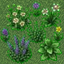
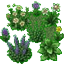
Terrain sprites with transparency, drawn on top of the ground (0.8.998)
Sprites with a grass background are converted to transparent PNGs (tool: out/make_alpha.py,
not in the repo). The renderer draws the ground image first and the sprite over it;
opaque sprites with grass background still work through the old cut-out.

Claude-Session: https://claude.ai/code/session_013ompfMeHdFWbnidekwzC7M

diff --git a/public/js/render/layers.js b/public/js/render/layers.js
@@ -75,47 +75,65 @@
     }
   };
 
-  // Terrängbilderna har gräs som bakgrund. På sandmark klipps varje bild ut genom att pixlar som är lika gräsbildens blir genomskinliga.
-  // Resultatet sparas per bild, och en bild som inte hunnit laddas ger null (brickan ritas om när den är klar).
-  const cutOuts = new Map();
-  const onGround = (image, grass) => {
-    if (!image || !grass) return null;
+  // Terrängbilder med genomskinlig bakgrund (träd, sten, örter ...) ritas ovanpå markens bild. En bild utan genomskinlighet som har gräs som
+  // bakgrund klipps i stället ut på annan mark än gräs: pixlar som är lika gräsbildens blir genomskinliga. Svaret sparas per bild.
+  // En bild som inte hunnit laddas ger null (brickan ritas om när den är klar).
+  const transparent = new Map(), cutOuts = new Map();
+  const isTransparent = image => {
+    let answer = transparent.get(image);
+    if (answer === undefined) {
+      const canvas = document.createElement('canvas'), context = canvas.getContext('2d', { willReadFrequently: true });
+      canvas.width = image.naturalWidth; canvas.height = image.naturalHeight;
+      context.drawImage(image, 0, 0);
+      const pixels = context.getImageData(0, 0, canvas.width, canvas.height).data;
+      answer = false;
+      for (let i = 3; i < pixels.length && !answer; i += 4) answer = pixels[i] < 255;
+      transparent.set(image, answer);
+    }
+    return answer;
+  };
+  const cutOut = (image, grass) => {
     let cut = cutOuts.get(image);
     if (cut) return cut;
     const width = image.naturalWidth, height = image.naturalHeight;
     cut = document.createElement('canvas');
     cut.width = width; cut.height = height;
-    const context = cut.getContext('2d', { willReadFrequently: true });
-    context.drawImage(image, 0, 0);
-    const picture = context.getImageData(0, 0, width, height), pixels = picture.data;
-    const back = document.createElement('canvas').getContext('2d', { willReadFrequently: true });
+    const context = cut.getContext('2d', { willReadFrequently: true }), back = document.createElement('canvas').getContext('2d', { willReadFrequently: true });
     back.canvas.width = width; back.canvas.height = height;
+    context.drawImage(image, 0, 0);
     back.drawImage(grass, 0, 0, width, height);
-    const ground = back.getImageData(0, 0, width, height).data;
+    const picture = context.getImageData(0, 0, width, height), pixels = picture.data, ground = back.getImageData(0, 0, width, height).data;
     for (let i = 0; i < pixels.length; i += 4) if (pixels[i] === ground[i] && pixels[i + 1] === ground[i + 1] && pixels[i + 2] === ground[i + 2]) pixels[i + 3] = 0;
     context.putImageData(picture, 0, 0);
     cutOuts.set(image, cut);
     return cut;
   };
 
+  // Terräng som är sin egen mark: ritas som hela rutor, utan något under
+  const WHOLE_TILE = new Set(['sand', 'water', 'mountain']);
+
   // Ritar brickan med sitt övre vänstra hörn i origo; types (valfri) får rutornas terrängtyper
   const paintTerrainChunk = (context, cx, cy, scale, tileSize, types) => {
     const N = TERRAIN_CHUNK, x0 = edge(cx * N, scale), y0 = edge(cy * N, scale), factor = scale / tileSize;
     for (let j = 0; j < N; j++) for (let i = 0; i < N; i++) {
-      const x = cx * N + i, y = cy * N + j, tile = World.getTile(x, y), type = tile.terrainType, terrain = Config.terrain[type], sandTerrain = Config.terrain.sand;
+      const x = cx * N + i, y = cy * N + j, tile = World.getTile(x, y), type = tile.terrainType, terrain = Config.terrain[type];
       const left = edge(x, scale) - x0, top = edge(y, scale) - y0;
       const width = edge(x + 1, scale) - x0 - left, height = edge(y + 1, scale) - y0 - top;
       if (types) types[j * N + i] = type;
-      const sandy = tile.ground === 'sand' && type !== 'sand' && type !== 'water' && type !== 'mountain';
       let image = Assets.getVariant(terrain.image, x, y);
-      context.fillStyle = sandy ? sandTerrain.color : terrain.color;
+      const layered = type === 'grass' || !WHOLE_TILE.has(type);   // gräs är bara marken; allt annat utom hela rutor ligger ovanpå den
+      const ground = layered ? Config.terrain[tile.ground] : terrain;
+      context.fillStyle = ground.color;
       context.fillRect(left, top, width, height);
-      if (sandy) {   // sandmark: sanden ritas först, och det som står på den klipps ut ur sin gräsbakgrund
-        const sand = Assets.getVariant(sandTerrain.image, x, y);
-        if (sand) { context.drawImage(sand, left, top, width, height); roundCorners(context, x, y, left, top, width, height); }
+      if (layered) {
+        if (type === 'grass') image = Assets.getVariant(ground.image, x, y);
+        else if (tile.ground === 'sand' && terrain.sandImage) image = Assets.get(terrain.sandImage) || image;
+        const groundImage = Assets.getVariant(ground.image, x, y);
+        if (type === 'grass' || tile.ground !== 'grass' || (image && isTransparent(image))) {   // marken först
+          if (groundImage) { context.drawImage(groundImage, left, top, width, height); if (ROUNDED.has(tile.ground)) roundCorners(context, x, y, left, top, width, height); }
+        }
         if (type === 'grass') continue;
-        const source = Assets.get(terrain.sandImage) || image;
-        if (source && !(image = onGround(source, Assets.getVariant(Config.terrain.grass.image, x, y)))) continue;
+        if (image && tile.ground !== 'grass' && !isTransparent(image) && !(image = cutOut(image, Assets.getVariant(Config.terrain.grass.image, x, y)))) continue;
       }
       const clustered = image && CLUSTERS.has(type);
       if (clustered) drawFlipped(context, image, left, top, width, height, Utils.hash(x, y, 80) < 0.5, false);

diff --git a/public/js/config/changelog.js b/public/js/config/changelog.js
@@ -6,6 +6,7 @@
 
   CityBuilder.Changelog = {
     '0.8.9': [
+      'Trees, rocks, herbs, mushrooms and other things standing on the ground are now drawn with transparent backgrounds on top of the ground, so they look right on sand too, without any green fringe',
       'The rock crusher now digs a tunnel of rock only, straight towards the nearest deposit it can not reach. Deposits count as impassable for this, so it never relies on carriers walking over other deposits: a deposit is reachable once a free tile touches it. When only deposits block the way, the crusher waits until you mine them',
       'Deserts have real sand ground now: trees and rocks can stand on sand, palms grow in oases (woodcutters chop them like any tree), and ground you have emptied stays sand instead of turning into grass',
       'Every mountain now has a moonstone at its peak, and the ore inside a mountain is generated as part of the terrain instead of being scattered afterwards',

diff --git a/public/index.html b/public/index.html
@@ -34,7 +34,7 @@
   <div id="toast"></div>
 
   <script>
-    var version = "0.8.997";
+    var version = "0.8.998";
     // Service workern får versionen i adressen: en ny version ger en ny cache som förladdas, och den gamla rensas
     if ('serviceWorker' in navigator) navigator.serviceWorker.register('sw.js?v=' + version).catch(() => {});
     document.write('<script src="js/files.js?v=' + version + '"><\/script>');   // skriptlistan (GAME_SCRIPTS), ihop med service workern
